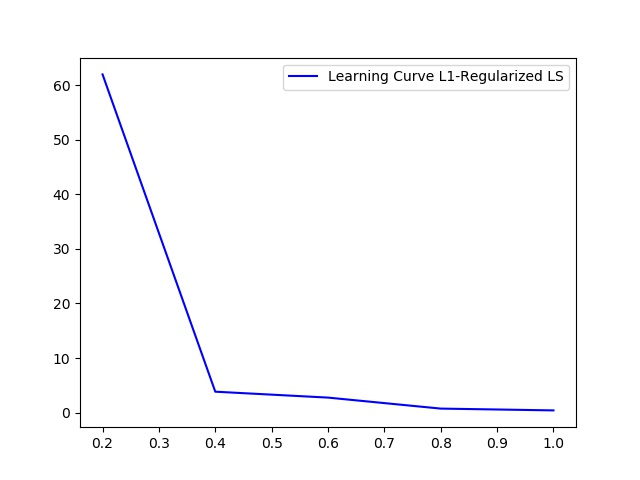
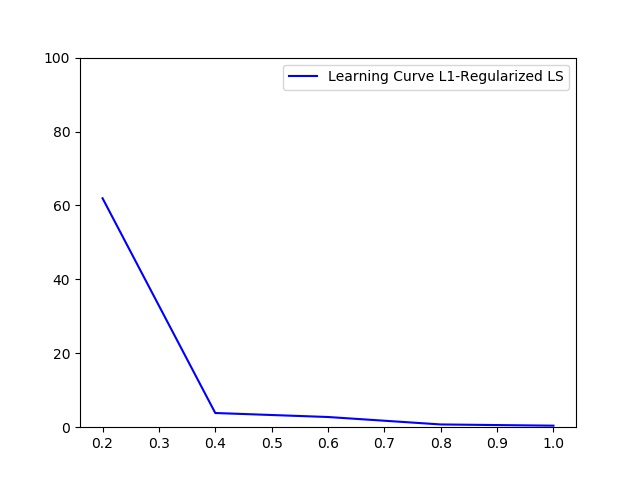
Edit range of learning curve

diff --git a/PA-1/PA1_Imp.py b/PA-1/PA1_Imp.py
@@ -234,6 +234,7 @@ def learning_curve(polyx,polyy,sampx,sampy,paradict={},subset=[1],repeat=1,metho
 
     plt.close()        
     plt.plot(subset, err, label=plot_title,c='b')
+    plt.ylim((0,100))
     plt.legend()
     plt.savefig(os.path.join('PA-1','plots',plot_title+'.jpg'))
     plt.close()
